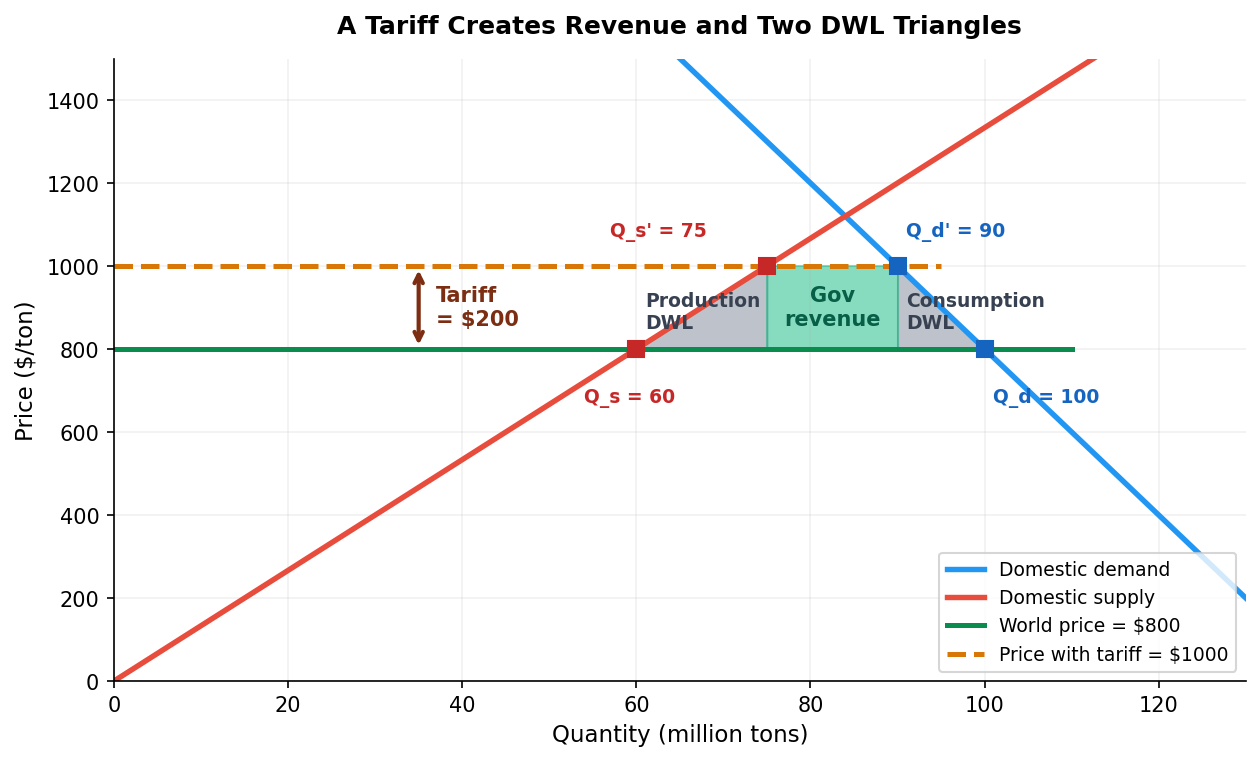
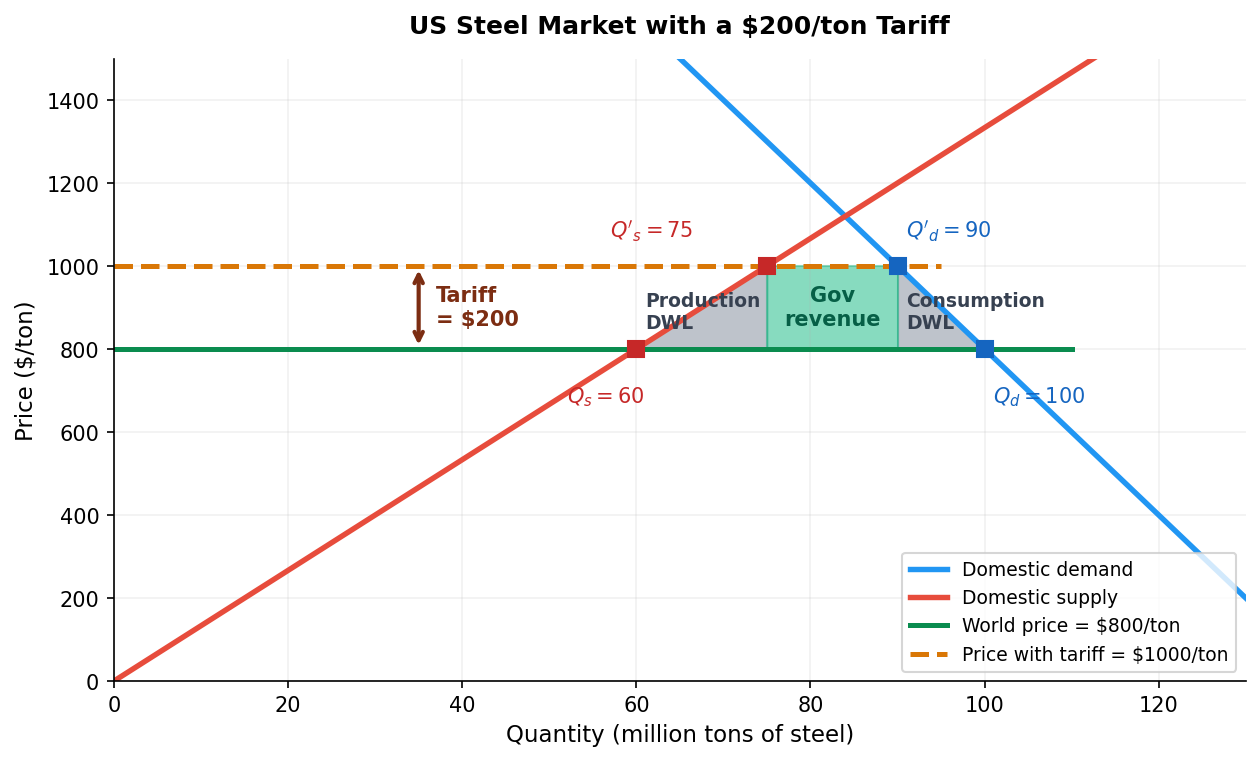
ch07: steel tariff example + new trade-deficit & farm cobra-effect slides (64)
Page 53 (Tariffs on Imports): figure_005 relabelled. Q-axis quantities
are now proper subscripted variables — Q_s, Q_d, Q'_s, Q'_d via mathtext
instead of raw underscores. Title and axis labels updated to call out
the US steel market explicitly ($200/ton tariff on $800/ton world
price, Section 232 framing). Slide HTML restructured to a 2-column
grid: left column gets a 'Product: US steel' card with the Section 232
context, a 'Small-country assumption' card explicitly stating
'world price = import price', and a 'Result of the tariff' card with
the four numeric outcomes; right column carries the relabelled figure.

NEW Page 55 'Did Tariffs Cut the US Trade Deficit?' (formerly the
slide that came right after Liberation Day):
  Left — figure_017_trade_deficit.png — BEA goods-plus-services
  trade-deficit line 2014-2025, area-shaded, with vertical dashed
  lines and small yellow callout boxes at the four key Trump tariff
  dates (Mar 2018 steel/Al, Jul 2018 China $34B, May 2019 25%
  escalation, Apr 2025 Liberation Day), and a green dotted horizontal
  reference at the 2017 pre-tariff baseline of $517B.
  Right — three cards: the political pitch (close the deficit), what
  actually happened ($517B → $580B → $971B → $1.08T projected),
  and the macro identity 'imports > exports iff S < I; tariffs just
  reroute imports.'

NEW Page 56 'Cobra Effect — Tariffs Hit US Farmers':
  Top — figure_018_farm_fallout.png with two panels:
[…]

diff --git a/econ1116/ch07-government-intervention/index.html b/econ1116/ch07-government-intervention/index.html
@@ -1705,11 +1705,33 @@
 
 <!-- Tariff concept + Figure 5 -->
 <section id="tariff-concept">
- <h2><i class="fa-solid fa-ship" style="color: var(--secondary-color);"></i> Tariffs on Imports</h2>
- <div style="text-align: center;">
-  <img alt="Tariff diagram" src="figures/figure_005_tariff.png" style="max-height: 460px; max-width: 92%;">
+ <h2><i class="fa-solid fa-ship" style="color: var(--secondary-color);"></i> Tariffs on Imports &mdash; The US Steel Market</h2>
+ <div style="display: grid; grid-template-columns: 0.95fr 1.05fr; gap: 16px; margin-top: 8px; align-items: start;">
+  <!-- Left: product context cards -->
+  <div style="display: flex; flex-direction: column; gap: 10px;">
+   <div style="background: #f8f6f3; border-radius: 10px; padding: 12px 18px; border-left: 4px solid var(--secondary-color);">
+    <p style="font-size: 11pt; font-weight: 700; color: var(--secondary-color); text-transform: uppercase; letter-spacing: 0.06em; margin: 0 0 6px 0;"><i class="fa-solid fa-industry"></i>&nbsp; Product: US Steel</p>
+    <p style="font-size: 13pt; line-height: 1.5; margin: 0;">A concrete example. The 2018 Section 232 tariff on imported steel was set at <strong>25%</strong>; for round numbers we use a <strong>$200/ton</strong> per-unit tariff on a <strong>$800/ton</strong> world price.</p>
+   </div>
+   <div style="background: #e3f2fd; border-radius: 10px; padding: 12px 18px; border-left: 4px solid var(--secondary-color);">
+    <p style="font-size: 11pt; font-weight: 700; color: var(--secondary-color); text-transform: uppercase; letter-spacing: 0.06em; margin: 0 0 6px 0;">Small-country assumption</p>
+    <p style="font-size: 12.5pt; line-height: 1.5; margin: 0;">The US is a price-taker on the world steel market &mdash; <strong>world price = import price</strong>. The world supply curve is <em>perfectly elastic</em> (a horizontal line) at the world price.</p>
+   </div>
+   <div style="background: #fff7ed; border-radius: 10px; padding: 12px 18px; border-left: 4px solid var(--accent-color);">
+    <p style="font-size: 11pt; font-weight: 700; color: var(--accent-color); text-transform: uppercase; letter-spacing: 0.06em; margin: 0 0 6px 0;">Result of the tariff</p>
+    <ul style="font-size: 12.5pt; line-height: 1.45; margin: 0; padding-left: 20px;">
+     <li>Domestic price <strong>rises $800 &rarr; $1,000</strong>.</li>
+     <li>Domestic Q<sub>s</sub> <strong>60M &rarr; 75M</strong>; Q<sub>d</sub> <strong>100M &rarr; 90M</strong>.</li>
+     <li>Imports <strong>40M &rarr; 15M tons</strong>.</li>
+     <li>Producers gain. Government collects revenue. Consumers lose more &mdash; <strong>2 DWL triangles</strong>.</li>
+    </ul>
+   </div>
+  </div>
+  <!-- Right: figure -->
+  <div style="display: flex; flex-direction: column;">
+   <img alt="US steel market with $200/ton tariff" src="figures/figure_005_tariff.png" style="width: 100%; max-height: 460px; object-fit: contain;">
+  </div>
  </div>
- <p style="font-size: 13pt; color: var(--muted-color); text-align: center; margin-top: 4px; font-style: italic;">$200 tariff &rarr; domestic price rises to $1,000. Producers gain. Government collects revenue. Consumers lose more than that &mdash; <strong>2 DWL triangles</strong>.</p>
  <aside class="notes">
   Walk the diagram: free trade Q_s = 60, Q_d = 100, imports = 40. With tariff: Q_s = 75, Q_d = 90, imports = 15. The green rectangle (gov revenue) is gain to the country. The TWO gray triangles are loss to the country. Net loss = $4B (Problem 6 numbers).
  </aside>
@@ -1739,6 +1761,65 @@
  </div>
  <aside class="notes">
   Amiti-Redding-Weinstein (NY Fed) found nearly 100% pass-through of the 2018 tariffs to US importers/consumers. Foreign exporters didn't absorb. So "foreign countries pay" is empirically false. The "reciprocal" formula (trade deficit/imports/2) has no economic justification &mdash; arithmetic, not economics.
+ </aside>
+</section>
+
+<!-- Did tariffs cut the US trade deficit? -->
+<section id="trade-deficit-tariffs">
+ <h2><i class="fa-solid fa-chart-line" style="color: var(--secondary-color);"></i> Did Tariffs Cut the US Trade Deficit?</h2>
+ <div style="display: grid; grid-template-columns: 1.2fr 0.8fr; gap: 18px; margin-top: 8px; align-items: start;">
+  <!-- Left: chart -->
+  <div style="display: flex; flex-direction: column;">
+   <img src="figures/figure_017_trade_deficit.png" alt="US trade deficit 2014-2025 with Trump tariff dates" style="width: 100%; max-height: 430px; object-fit: contain;">
+   <p style="font-size: 10.5pt; color: var(--muted-color); text-align: center; margin-top: 2px; font-style: italic;">Source: BEA, US International Trade in Goods and Services (annual).</p>
+  </div>
+  <!-- Right: argument vs. data -->
+  <div style="display: flex; flex-direction: column; gap: 10px;">
+   <div style="background: #f8f6f3; border-radius: 10px; padding: 12px 18px; border-left: 4px solid var(--primary-color);">
+    <p style="font-size: 11pt; font-weight: 700; color: var(--primary-color); text-transform: uppercase; letter-spacing: 0.06em; margin: 0 0 4px 0;">The political pitch</p>
+    <p style="font-size: 13pt; line-height: 1.5; margin: 0;"><em>&ldquo;Tariffs will close the trade deficit.&rdquo;</em> &mdash; the headline argument for the 2018 and 2025 tariff rounds.</p>
+   </div>
+   <div style="background: #ffebee; border-radius: 10px; padding: 12px 18px; border-left: 4px solid var(--danger-color);">
+    <p style="font-size: 11pt; font-weight: 700; color: var(--danger-color); text-transform: uppercase; letter-spacing: 0.06em; margin: 0 0 4px 0;">What actually happened</p>
+    <ul style="font-size: 12.5pt; line-height: 1.5; margin: 0; padding-left: 22px;">
+     <li>2017 pre-tariff deficit: <strong>$517B</strong>.</li>
+     <li>2018&ndash;19 (first Trump round): deficit grew to <strong>$580B</strong>.</li>
+     <li>By 2022 the deficit hit a record <strong>$971B</strong>.</li>
+     <li>2025 projected: <strong>~$1.08T</strong> &mdash; more than double the pre-tariff level.</li>
+    </ul>
+   </div>
+   <div style="background: #fff7ed; border-radius: 10px; padding: 10px 16px; border-left: 4px solid var(--accent-color);">
+    <p style="font-size: 12pt; line-height: 1.45; margin: 0;"><strong>Why?</strong> A trade deficit is a <em>macro</em> identity: imports &gt; exports iff the US saves &lt; it invests. Tariffs just shift <em>which</em> goods are imported &mdash; not whether.</p>
+   </div>
+  </div>
+ </div>
+ <aside class="notes">
+  The standard political argument is that tariffs will close the trade deficit. The data show the opposite — the deficit kept growing through the 2018-19 tariff round and the 2025 'Liberation Day' announcement, hitting record highs along the way. The reason is the saving-investment identity: a country's trade deficit = the gap between domestic investment and domestic saving. Tariffs don't change either side of that identity for very long; they just reroute imports (China → Vietnam, Mexico, etc.). Cite Furman (2018), Krugman (2019), and the IMF April 2025 WEO for the macro view.
+ </aside>
+</section>
+
+<!-- Cobra effect: tariffs hurt US farmers -->
+<section id="farm-cobra-effect">
+ <h2><i class="fa-solid fa-tractor" style="color: var(--danger-color);"></i> Cobra Effect &mdash; Tariffs Hit US Farmers</h2>
+ <div style="display: grid; grid-template-columns: 1fr; gap: 8px; margin-top: 6px;">
+  <img src="figures/figure_018_farm_fallout.png" alt="US soybean exports to China collapsed in 2018; farm bankruptcies spiked 2019" style="width: 100%; max-height: 360px; object-fit: contain;">
+  <div style="display: grid; grid-template-columns: 1fr 1fr 1fr; gap: 12px; margin-top: 4px;">
+   <div style="background: #ffebee; border-radius: 8px; padding: 10px 14px; border-left: 4px solid var(--danger-color);">
+    <p style="font-size: 11pt; font-weight: 700; color: var(--danger-color); text-transform: uppercase; letter-spacing: 0.05em; margin: 0 0 4px 0;">Retaliation</p>
+    <p style="font-size: 12pt; line-height: 1.45; margin: 0;">China&rsquo;s 25% tariff on US soybeans (July 2018) cut exports to China <strong>$12.4B &rarr; $3.1B</strong> in one year.</p>
+   </div>
+   <div style="background: #fff7ed; border-radius: 8px; padding: 10px 14px; border-left: 4px solid var(--accent-color);">
+    <p style="font-size: 11pt; font-weight: 700; color: var(--accent-color); text-transform: uppercase; letter-spacing: 0.05em; margin: 0 0 4px 0;">Bankruptcy spike</p>
+    <p style="font-size: 12pt; line-height: 1.45; margin: 0;">Chapter-12 farm filings jumped to a <strong>2019 high of 595</strong> &mdash; tariff-exposed states hit hardest.</p>
+   </div>
+   <div style="background: #f8f6f3; border-radius: 8px; padding: 10px 14px; border-left: 4px solid var(--primary-color);">
+    <p style="font-size: 11pt; font-weight: 700; color: var(--primary-color); text-transform: uppercase; letter-spacing: 0.05em; margin: 0 0 4px 0;">Cobra effect</p>
+    <p style="font-size: 12pt; line-height: 1.45; margin: 0;">USDA paid out <strong>$28B</strong> in 2018&ndash;19 Market Facilitation Program subsidies &mdash; <em>taxpayers covered the loss the tariff caused.</em></p>
+   </div>
+  </div>
+ </div>
+ <aside class="notes">
+  Classic cobra effect: the tariff was supposed to help American producers; instead it triggered Chinese retaliation that hammered American farmers. Pre-tariff, China was the #1 buyer of US soybeans, taking $12.4B in 2017 (~60% of total US soybean exports). After the July 2018 retaliatory tariff, exports to China fell 75% to $3.1B; soybean prices dropped 20%; Chapter-12 farm bankruptcy filings climbed to 595 in 2019, the highest since 2011. The federal response: $28B in Market Facilitation Program payments to compensate farmers — i.e., US taxpayers paid US farmers for the damage caused by the US government's own tariff policy. China shifted purchases to Brazil and Argentina; even after the Phase One trade deal restored some volume, China's import-share never recovered to pre-tariff levels. Sources: USDA ERS, American Farm Bureau Federation, BEA.
  </aside>
 </section>
 

diff --git a/econ1116/ch07-government-intervention/presentation.html b/econ1116/ch07-government-intervention/presentation.html
@@ -1705,11 +1705,33 @@
 
 <!-- Tariff concept + Figure 5 -->
 <section id="tariff-concept">
- <h2><i class="fa-solid fa-ship" style="color: var(--secondary-color);"></i> Tariffs on Imports</h2>
- <div style="text-align: center;">
-  <img alt="Tariff diagram" src="figures/figure_005_tariff.png" style="max-height: 460px; max-width: 92%;">
+ <h2><i class="fa-solid fa-ship" style="color: var(--secondary-color);"></i> Tariffs on Imports &mdash; The US Steel Market</h2>
+ <div style="display: grid; grid-template-columns: 0.95fr 1.05fr; gap: 16px; margin-top: 8px; align-items: start;">
+  <!-- Left: product context cards -->
+  <div style="display: flex; flex-direction: column; gap: 10px;">
+   <div style="background: #f8f6f3; border-radius: 10px; padding: 12px 18px; border-left: 4px solid var(--secondary-color);">
+    <p style="font-size: 11pt; font-weight: 700; color: var(--secondary-color); text-transform: uppercase; letter-spacing: 0.06em; margin: 0 0 6px 0;"><i class="fa-solid fa-industry"></i>&nbsp; Product: US Steel</p>
+    <p style="font-size: 13pt; line-height: 1.5; margin: 0;">A concrete example. The 2018 Section 232 tariff on imported steel was set at <strong>25%</strong>; for round numbers we use a <strong>$200/ton</strong> per-unit tariff on a <strong>$800/ton</strong> world price.</p>
+   </div>
+   <div style="background: #e3f2fd; border-radius: 10px; padding: 12px 18px; border-left: 4px solid var(--secondary-color);">
+    <p style="font-size: 11pt; font-weight: 700; color: var(--secondary-color); text-transform: uppercase; letter-spacing: 0.06em; margin: 0 0 6px 0;">Small-country assumption</p>
+    <p style="font-size: 12.5pt; line-height: 1.5; margin: 0;">The US is a price-taker on the world steel market &mdash; <strong>world price = import price</strong>. The world supply curve is <em>perfectly elastic</em> (a horizontal line) at the world price.</p>
+   </div>
+   <div style="background: #fff7ed; border-radius: 10px; padding: 12px 18px; border-left: 4px solid var(--accent-color);">
+    <p style="font-size: 11pt; font-weight: 700; color: var(--accent-color); text-transform: uppercase; letter-spacing: 0.06em; margin: 0 0 6px 0;">Result of the tariff</p>
+    <ul style="font-size: 12.5pt; line-height: 1.45; margin: 0; padding-left: 20px;">
+     <li>Domestic price <strong>rises $800 &rarr; $1,000</strong>.</li>
+     <li>Domestic Q<sub>s</sub> <strong>60M &rarr; 75M</strong>; Q<sub>d</sub> <strong>100M &rarr; 90M</strong>.</li>
+     <li>Imports <strong>40M &rarr; 15M tons</strong>.</li>
+     <li>Producers gain. Government collects revenue. Consumers lose more &mdash; <strong>2 DWL triangles</strong>.</li>
+    </ul>
+   </div>
+  </div>
+  <!-- Right: figure -->
+  <div style="display: flex; flex-direction: column;">
+   <img alt="US steel market with $200/ton tariff" src="figures/figure_005_tariff.png" style="width: 100%; max-height: 460px; object-fit: contain;">
+  </div>
  </div>
- <p style="font-size: 13pt; color: var(--muted-color); text-align: center; margin-top: 4px; font-style: italic;">$200 tariff &rarr; domestic price rises to $1,000. Producers gain. Government collects revenue. Consumers lose more than that &mdash; <strong>2 DWL triangles</strong>.</p>
  <aside class="notes">
   Walk the diagram: free trade Q_s = 60, Q_d = 100, imports = 40. With tariff: Q_s = 75, Q_d = 90, imports = 15. The green rectangle (gov revenue) is gain to the country. The TWO gray triangles are loss to the country. Net loss = $4B (Problem 6 numbers).
  </aside>
@@ -1739,6 +1761,65 @@
  </div>
  <aside class="notes">
   Amiti-Redding-Weinstein (NY Fed) found nearly 100% pass-through of the 2018 tariffs to US importers/consumers. Foreign exporters didn't absorb. So "foreign countries pay" is empirically false. The "reciprocal" formula (trade deficit/imports/2) has no economic justification &mdash; arithmetic, not economics.
+ </aside>
+</section>
+
+<!-- Did tariffs cut the US trade deficit? -->
+<section id="trade-deficit-tariffs">
+ <h2><i class="fa-solid fa-chart-line" style="color: var(--secondary-color);"></i> Did Tariffs Cut the US Trade Deficit?</h2>
+ <div style="display: grid; grid-template-columns: 1.2fr 0.8fr; gap: 18px; margin-top: 8px; align-items: start;">
+  <!-- Left: chart -->
+  <div style="display: flex; flex-direction: column;">
+   <img src="figures/figure_017_trade_deficit.png" alt="US trade deficit 2014-2025 with Trump tariff dates" style="width: 100%; max-height: 430px; object-fit: contain;">
+   <p style="font-size: 10.5pt; color: var(--muted-color); text-align: center; margin-top: 2px; font-style: italic;">Source: BEA, US International Trade in Goods and Services (annual).</p>
+  </div>
+  <!-- Right: argument vs. data -->
+  <div style="display: flex; flex-direction: column; gap: 10px;">
+   <div style="background: #f8f6f3; border-radius: 10px; padding: 12px 18px; border-left: 4px solid var(--primary-color);">
+    <p style="font-size: 11pt; font-weight: 700; color: var(--primary-color); text-transform: uppercase; letter-spacing: 0.06em; margin: 0 0 4px 0;">The political pitch</p>
+    <p style="font-size: 13pt; line-height: 1.5; margin: 0;"><em>&ldquo;Tariffs will close the trade deficit.&rdquo;</em> &mdash; the headline argument for the 2018 and 2025 tariff rounds.</p>
+   </div>
+   <div style="background: #ffebee; border-radius: 10px; padding: 12px 18px; border-left: 4px solid var(--danger-color);">
+    <p style="font-size: 11pt; font-weight: 700; color: var(--danger-color); text-transform: uppercase; letter-spacing: 0.06em; margin: 0 0 4px 0;">What actually happened</p>
+    <ul style="font-size: 12.5pt; line-height: 1.5; margin: 0; padding-left: 22px;">
+     <li>2017 pre-tariff deficit: <strong>$517B</strong>.</li>
+     <li>2018&ndash;19 (first Trump round): deficit grew to <strong>$580B</strong>.</li>
+     <li>By 2022 the deficit hit a record <strong>$971B</strong>.</li>
+     <li>2025 projected: <strong>~$1.08T</strong> &mdash; more than double the pre-tariff level.</li>
+    </ul>
+   </div>
+   <div style="background: #fff7ed; border-radius: 10px; padding: 10px 16px; border-left: 4px solid var(--accent-color);">
+    <p style="font-size: 12pt; line-height: 1.45; margin: 0;"><strong>Why?</strong> A trade deficit is a <em>macro</em> identity: imports &gt; exports iff the US saves &lt; it invests. Tariffs just shift <em>which</em> goods are imported &mdash; not whether.</p>
+   </div>
+  </div>
+ </div>
+ <aside class="notes">
+  The standard political argument is that tariffs will close the trade deficit. The data show the opposite — the deficit kept growing through the 2018-19 tariff round and the 2025 'Liberation Day' announcement, hitting record highs along the way. The reason is the saving-investment identity: a country's trade deficit = the gap between domestic investment and domestic saving. Tariffs don't change either side of that identity for very long; they just reroute imports (China → Vietnam, Mexico, etc.). Cite Furman (2018), Krugman (2019), and the IMF April 2025 WEO for the macro view.
+ </aside>
+</section>
+
+<!-- Cobra effect: tariffs hurt US farmers -->
+<section id="farm-cobra-effect">
+ <h2><i class="fa-solid fa-tractor" style="color: var(--danger-color);"></i> Cobra Effect &mdash; Tariffs Hit US Farmers</h2>
+ <div style="display: grid; grid-template-columns: 1fr; gap: 8px; margin-top: 6px;">
+  <img src="figures/figure_018_farm_fallout.png" alt="US soybean exports to China collapsed in 2018; farm bankruptcies spiked 2019" style="width: 100%; max-height: 360px; object-fit: contain;">
+  <div style="display: grid; grid-template-columns: 1fr 1fr 1fr; gap: 12px; margin-top: 4px;">
+   <div style="background: #ffebee; border-radius: 8px; padding: 10px 14px; border-left: 4px solid var(--danger-color);">
+    <p style="font-size: 11pt; font-weight: 700; color: var(--danger-color); text-transform: uppercase; letter-spacing: 0.05em; margin: 0 0 4px 0;">Retaliation</p>
+    <p style="font-size: 12pt; line-height: 1.45; margin: 0;">China&rsquo;s 25% tariff on US soybeans (July 2018) cut exports to China <strong>$12.4B &rarr; $3.1B</strong> in one year.</p>
+   </div>
+   <div style="background: #fff7ed; border-radius: 8px; padding: 10px 14px; border-left: 4px solid var(--accent-color);">
+    <p style="font-size: 11pt; font-weight: 700; color: var(--accent-color); text-transform: uppercase; letter-spacing: 0.05em; margin: 0 0 4px 0;">Bankruptcy spike</p>
+    <p style="font-size: 12pt; line-height: 1.45; margin: 0;">Chapter-12 farm filings jumped to a <strong>2019 high of 595</strong> &mdash; tariff-exposed states hit hardest.</p>
+   </div>
+   <div style="background: #f8f6f3; border-radius: 8px; padding: 10px 14px; border-left: 4px solid var(--primary-color);">
+    <p style="font-size: 11pt; font-weight: 700; color: var(--primary-color); text-transform: uppercase; letter-spacing: 0.05em; margin: 0 0 4px 0;">Cobra effect</p>
+    <p style="font-size: 12pt; line-height: 1.45; margin: 0;">USDA paid out <strong>$28B</strong> in 2018&ndash;19 Market Facilitation Program subsidies &mdash; <em>taxpayers covered the loss the tariff caused.</em></p>
+   </div>
+  </div>
+ </div>
+ <aside class="notes">
+  Classic cobra effect: the tariff was supposed to help American producers; instead it triggered Chinese retaliation that hammered American farmers. Pre-tariff, China was the #1 buyer of US soybeans, taking $12.4B in 2017 (~60% of total US soybean exports). After the July 2018 retaliatory tariff, exports to China fell 75% to $3.1B; soybean prices dropped 20%; Chapter-12 farm bankruptcy filings climbed to 595 in 2019, the highest since 2011. The federal response: $28B in Market Facilitation Program payments to compensate farmers — i.e., US taxpayers paid US farmers for the damage caused by the US government's own tariff policy. China shifted purchases to Brazil and Argentina; even after the Phase One trade deal restored some volume, China's import-share never recovered to pre-tariff levels. Sources: USDA ERS, American Farm Bureau Federation, BEA.
  </aside>
 </section>
 
